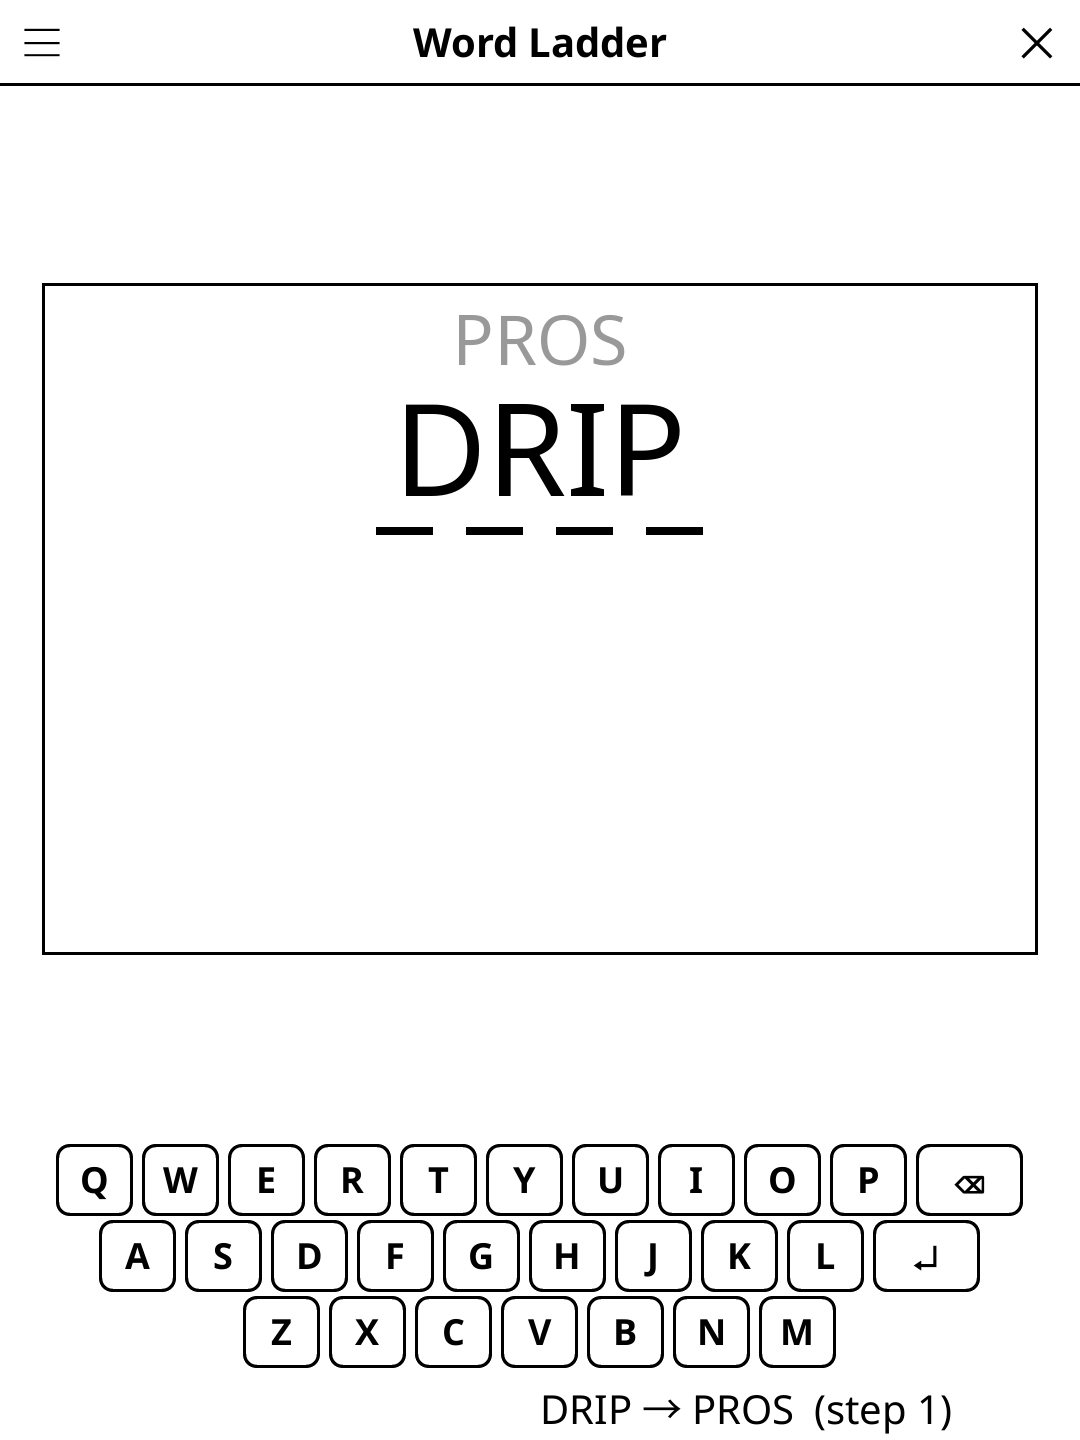
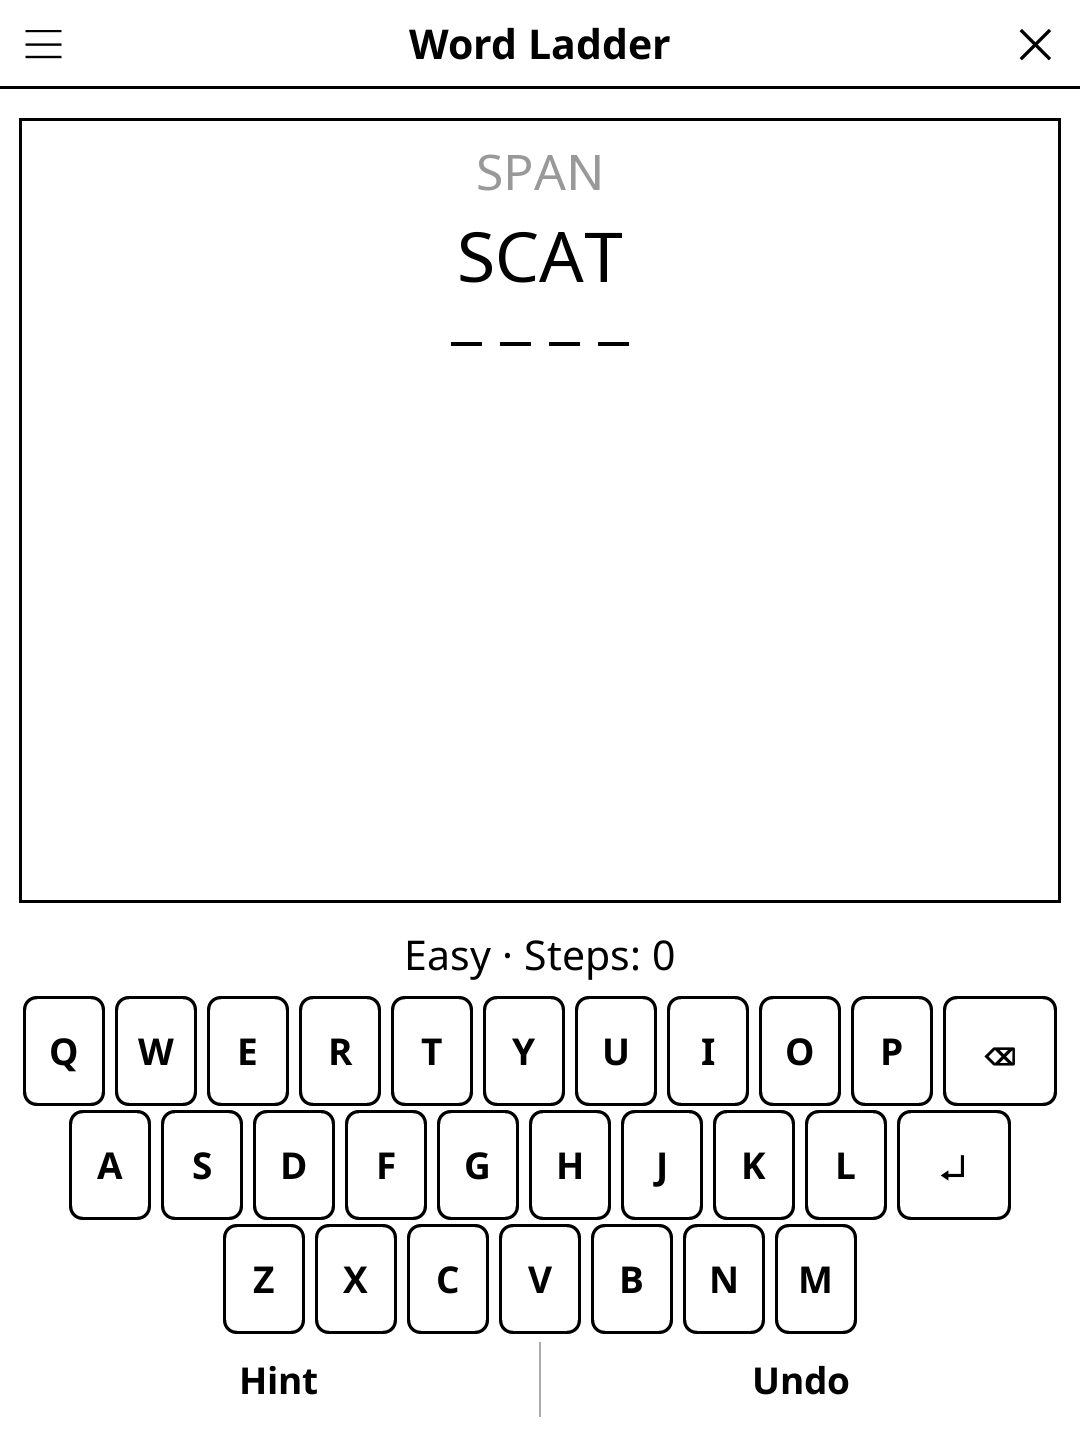
release: 1.1.0 -- redesigned screen, harmonised menu, New game at round end
Screen redesign (full-width action bar, unified pad, status line, larger
board), harmonised title-bar menu, and a "New game" button once the round
is over. See CHANGELOG.md.

diff --git a/CHANGELOG.md b/CHANGELOG.md
@@ -2,6 +2,28 @@
 
 All notable changes to this project will be documented in this file.
 
+## [1.1.0] - 2026-10-30
+
+### Changed
+- Redesigned play screen: the ladder fills the room the keyboard leaves,
+  every row at the same size, and Hint and Undo moved from the title-bar menu
+  to a full-width bar under the keyboard. The keys are finger-sized.
+- A long ladder keeps its newest words on screen: the oldest drop off the top
+  behind "…" instead of running off the board.
+- The title-bar menu follows the order every game uses: New game (was "New
+  puzzle"), "Difficulty: …", "Language: …", "Length: …", Rules.
+- The status line reads "Medium · Steps: 3" (the board already shows the
+  start, target and every word) and wraps in landscape.
+- The keyboard follows KOReader's language (AZERTY in French, QWERTZ in
+  German) instead of the word list's language.
+- Once the ladder is solved, the bar shows "New game" in place of Hint and
+  Undo.
+
+### Fixed
+- Words were sized from the board height and then scaled again for the
+  screen's DPI, so they could overflow the board; they are now measured to
+  fit it.
+
 ## [1.0.14] - 2026-10-02
 
 ### Fixed

diff --git a/README.md b/README.md
@@ -30,8 +30,8 @@ Classic word-ladder puzzles: change one word into another, one letter at a time.
 | Submit a word | Type it and confirm |
 | Request a hint | Tap **Hint** |
 | Undo last word | Tap **Undo** |
-| New puzzle | Tap **New puzzle** |
-| Change word length / difficulty | Tap **Word length** / **Difficulty** |
+| New puzzle | Tap **New game** |
+| Change word length / difficulty | Tap **Length** / **Difficulty** |
 
 ## Installation
 
